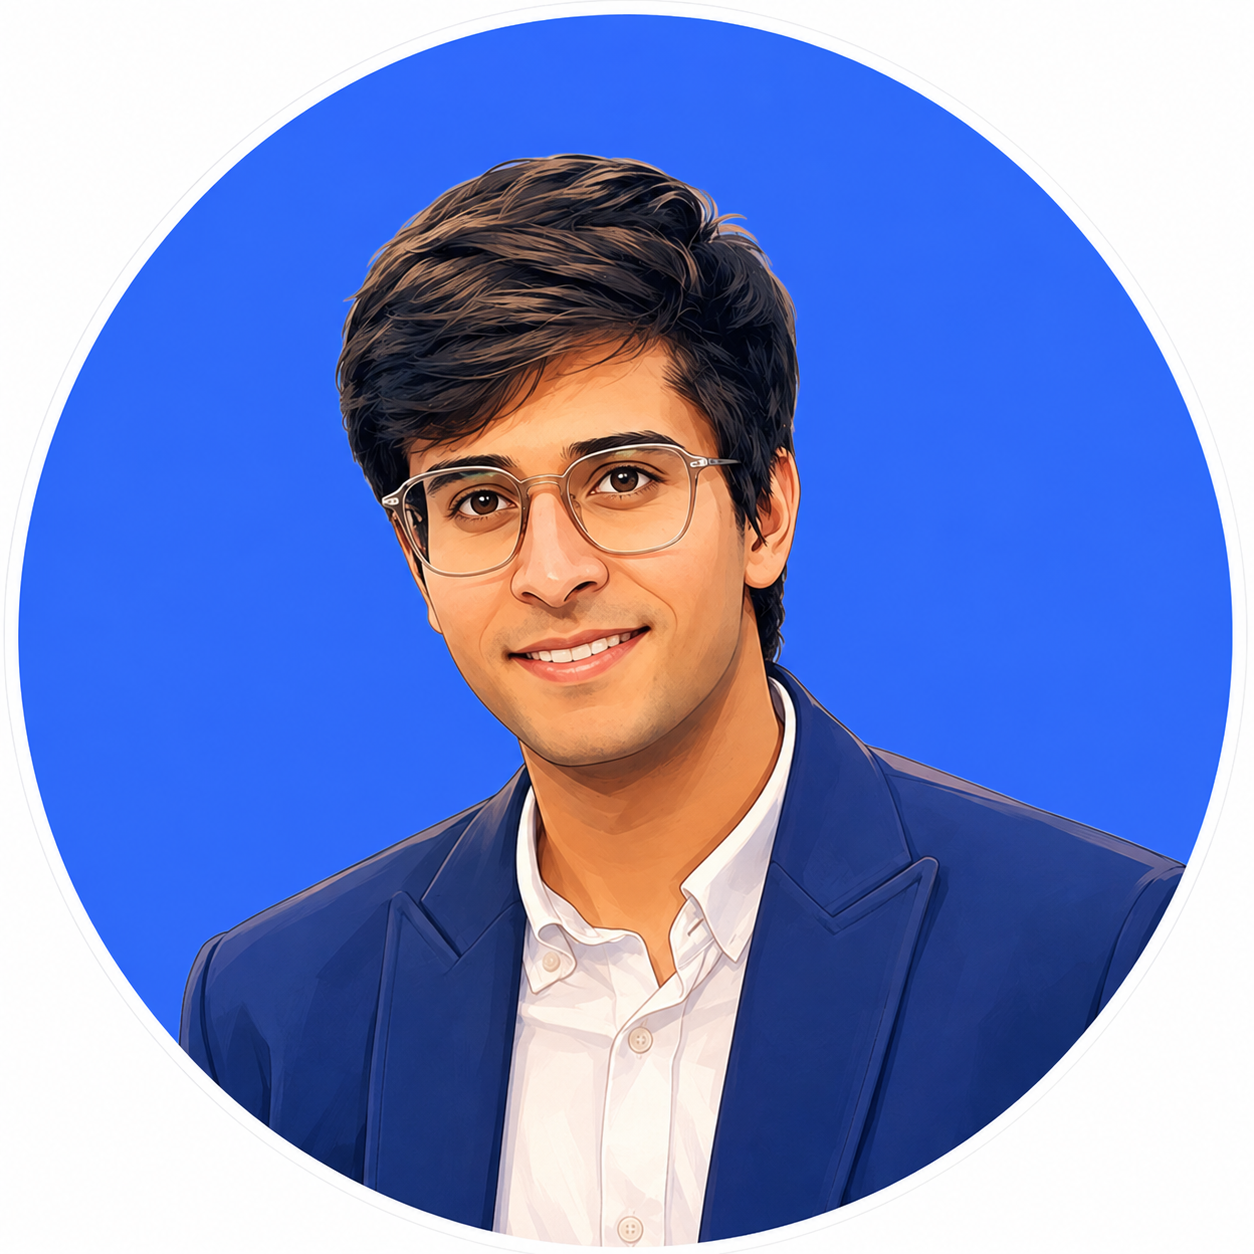
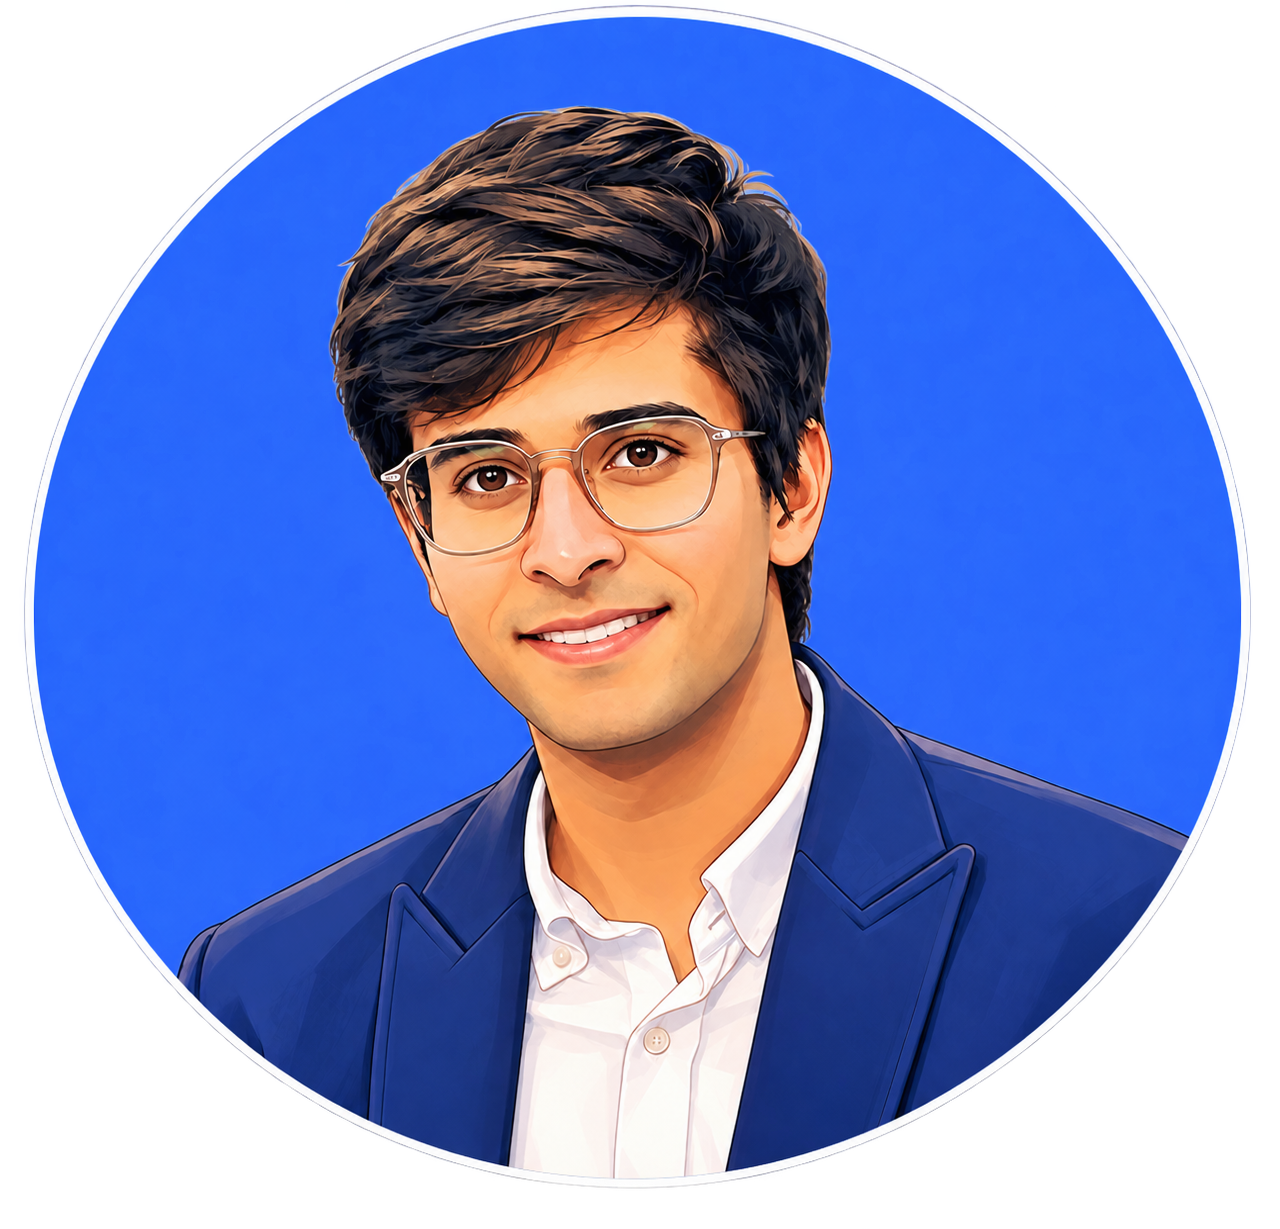
Add particles-bg and update HomePage background
Add particles-bg (and related deps motion, ogl) to package.json and package-lock. HomePage now uses ParticlesBg (cobweb, color #4070F4, num=45, bg=true), removes unused imports and tweaks layout classes. Minor whitespace cleanup in App.jsx and update to face.png asset.

diff --git a/portfolio/src/Pages/HomePage.jsx b/portfolio/src/Pages/HomePage.jsx
@@ -1,16 +1,19 @@
-import NavigationBar from "../components/navigationBar"
+
 import MainPageContent from "../components/MainPageContent"
 import Footer from "../components/footer"
-import FluidCursor from "../components/FluidCursor"
+import ParticlesBg from 'particles-bg'
 
 const Home = ()=> {
     return (
 
     <div>
         
-    <div className="flex flex-col h-full min-h-screen">
+    <div className="flex flex-col min-h-full">
 
-        <section className="flex-1">
+    <ParticlesBg color="#4070F4" num={45} 
+        type="cobweb" bg={true} />
+
+        <section className="mb-0 flex-1">
             <MainPageContent/>
         </section>            
     </div>

diff --git a/portfolio/src/App.jsx b/portfolio/src/App.jsx
@@ -8,10 +8,8 @@ import Skills from "./Pages/Skills";
 import { useEffect } from "react";
 import FluidCursor from "./components/FluidCursor";
 import NavigationBar from "./components/navigationBar";
-
 import AOS from 'aos';
 import 'aos/dist/aos.css'; 
-
 
 const App = () => {
 
@@ -25,12 +23,14 @@ const App = () => {
     }, []);
 
     return (
+
+        
         <HashRouter>
 
             <NavigationBar />
 
             <FluidCursor />
-
+            
             <Routes>
 
                 <Route
